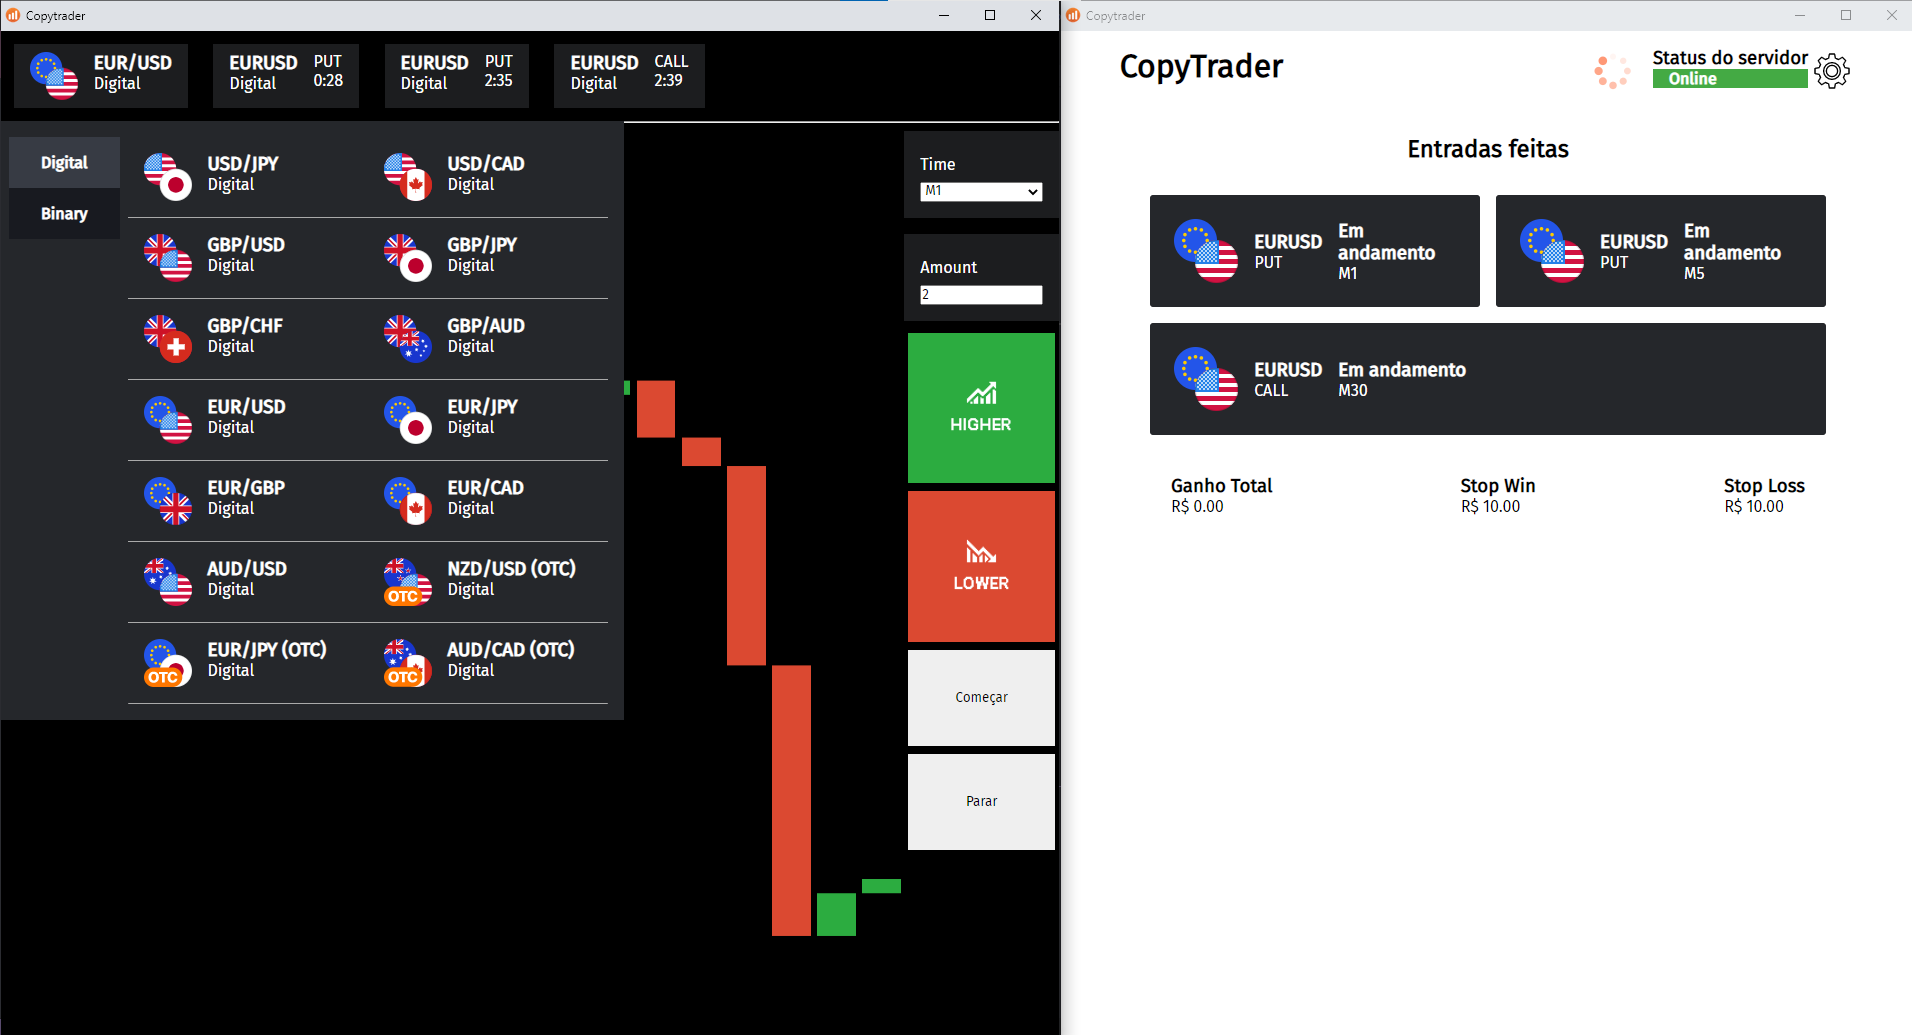
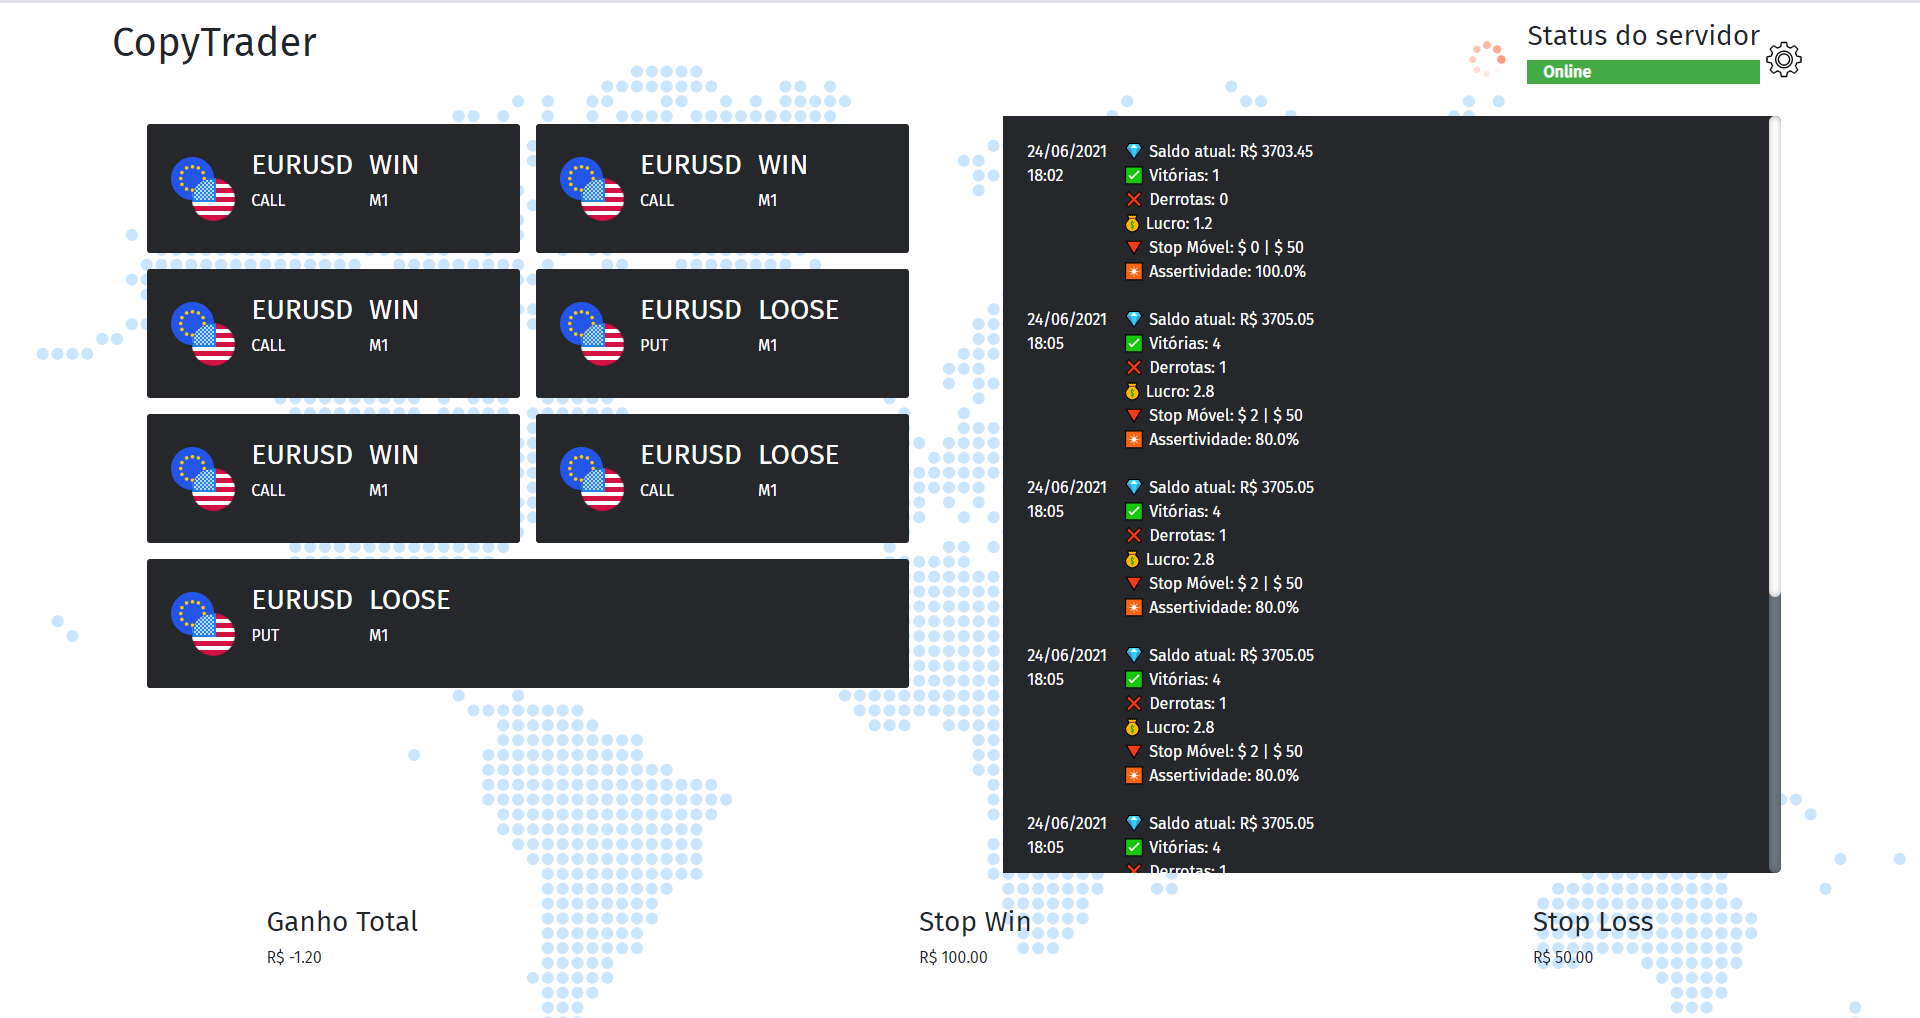
show loggs form client

diff --git a/client/web/scripts/settings.js b/client/web/scripts/settings.js
@@ -116,8 +116,6 @@ function saveChanges(config = null) {
 
         config.valor = parseFloat(getValue(
             "#valor", config.valor))
-        config.tipo_par = getValue(
-            "#tipo_par", config.tipo_par)
         
         config.vez_gale = getValue(
             "#vez_gale", config.vez_gale)
@@ -179,14 +177,12 @@ function saveChanges(config = null) {
 eel.expose(loadConfig)
 function loadConfig() {
     function setValue(value, query) {
-        console.log(value, query);
         document.querySelector(query).value = value;
     }
     let config = JSON.parse(localStorage.getItem('config'));
     if (config == null) {
         return
     }
-    console.log(config)
     setValue(config.valor, "#valor")
     setValue(config.stoploss, "#settings #stoploss")
     setValue(config.stopwin, "#settings #stopwin")
@@ -201,7 +197,6 @@ function loadConfig() {
     setValue(config.max_soros, "#max_soros")
     setValue(config.max_gale, "#max_gale")
     setValue(config.vez_gale, "#vez_gale")
-    setValue(config.tipo_par, "#tipo_par")
 
     if (config['delay'] != false) {
         document.querySelector("#delaye").checked = true;
@@ -212,4 +207,16 @@ function loadConfig() {
     setCiclos("#settings-ciclosgale ", config.ciclos_gale) 
     setCiclos("#settings-ciclossoros ", config.ciclos_soros) 
     return config
+}
+eel.expose(addLog)
+function addLog(date, hour, message) {
+    let logs = document.querySelector("div.logs ul");
+    let newLog = document.createElement("li");
+    newLog.innerHTML = `
+    <div>
+        <p> ${date} </p> <p> ${hour} </p>
+    </div> <p> ${message} </p>`
+    logs.appendChild(newLog);
+
+    logs.scrollBy(0, 200);
 }

diff --git a/client/web/styles/trades.css b/client/web/styles/trades.css
@@ -1,24 +1,52 @@
 main ul {
     display: flex;
     flex-wrap: wrap;
-    width: 90%;
-    max-height: 80vh;
+    max-height: calc(100vh - 260px);
     overflow: auto;
+    width: 90%;
+    overflow-x: clip;
 }
 
 main ul li {
     display: flex;
-    align-items: center;
     justify-content: flex-start;
-    flex: 1 1 15%;
     padding: 1em;
     margin: 0.5em;
-    background-color: #25272b;
     color: #fff;
     border-radius: 3px;
     list-style: none;
 }
 
+main > div.trades {
+    flex-grow: 1;
+}
+main div.trades li {
+    background-color: #25272b;
+    align-items: center;
+    flex: 1 1 15%;
+    font-size: unset;
+}
+
 main ul li > * {
     margin: 0.5em;
+}
+main div.logs {
+    max-width: 50vw;
+    width: 100%;
+    height: calc(100vh - 260px);
+}
+main div.logs li,
+main div.logs {
+    padding: 0;
+}
+main div.logs ul {
+    flex-direction: column;
+    background-color: #25272b;
+    border-radius: 0 6px 6px 0;
+    flex-wrap: nowrap;
+    padding: 0.5em;
+    height: 100%;
+}
+main div.logs li p {
+    margin-bottom: 0;
 }

diff --git a/client/web/index.html b/client/web/index.html
@@ -55,9 +55,12 @@
                 id = "config-btn" onClick = "openConfig()">
         </header>
         <main>
-            <h2> Entradas feitas </h2>
-            <ul>
-            </ul>
+            <div class="trades">
+                <ul></ul>
+            </div>
+            <div class="logs">
+                <ul></ul>
+            </div>            
         </main>
         <footer>
             <div>
@@ -76,6 +79,9 @@
     </div>
 </body>
 <script>
-    $("section.config").load("components/config.html")
+    $("section.config").load("components/config.html");
+    // login({
+    //     preventDefault: () => {}
+    // });
 </script>
 </html>

diff --git a/client/web/styles/main.css b/client/web/styles/main.css
@@ -132,9 +132,14 @@ section button.close {
 
 main {
     display: flex;
+    width: 90vw;
+}
+
+main > div {
+    display: flex;
     flex-direction: column;
     align-items: center;
-    width: 90vw;
+    flex: 1;
 }
 
 main h2 {
@@ -145,6 +150,7 @@ button {
 }
 header {
     display: flex;
+    align-items: center;
     justify-content: flex-end;
     width: 90vw;
     padding: 1em;

diff --git a/client/web/styles/bootstrap.css b/client/web/styles/bootstrap.css
@@ -144,13 +144,11 @@ address {
   line-height: inherit;
 }
 
-ol,
-ul {
+ol {
   padding-left: 2rem;
 }
 
 ol,
-ul,
 dl {
   margin-top: 0;
   margin-bottom: 1rem;

diff --git a/client/utils/operar.py b/client/utils/operar.py
@@ -1,4 +1,5 @@
 import threading, time, amanobot
+from datetime import datetime
 from utils.IQ import IQ_API
 from pprint import pprint
 
@@ -7,6 +8,7 @@ class Operacao(IQ_API):
         self.cadeado = threading.Lock()
         self.config = config
         self.entrou = False
+        self.output = lambda *x: print(x)
         self.operacoes_ativas = {}	
         self.chat_id = config["chat_id"]
         self.bottoken = config["token"]
@@ -75,9 +77,7 @@ class Operacao(IQ_API):
             "loss": self.config['scalper_loss']
         } if (self.config['scalper_win'] != 0 and 
             self.config['scalper_loss'] != 0) else False
-
-        pprint(self.config)
-        
+                
     def resetar_status(self):
         self.saldo_inicial = self.API.get_balance()
         self.valor = self.config["valor"]
@@ -107,7 +107,10 @@ class Operacao(IQ_API):
                 except Exception as e:
                     print("mostrar_mensagem()", type(e), e)
 
-        print(mensagem)
+        today = datetime.now()
+        self.output(today.strftime("%d/%m/%Y"), 
+            today.strftime("%H:%M"), 
+            mensagem.strip().replace("\n", "<br>"))
         if logs: return
 
         if self.bottoken != "" and self.chat_id != "":

diff --git a/client/iqoptionapi/stable_api.py b/client/iqoptionapi/stable_api.py
@@ -178,8 +178,8 @@ class IQ_Option:
 
         start = time.time()
         while self.api.leaderboard_deals_client == None:
-            if time.time() - start > 40:
-                return None
+            if time.time() - start > 30:
+                return []
         return self.api.leaderboard_deals_client
 
     def get_instruments(self, type):
@@ -1549,13 +1549,14 @@ class IQ_Option:
         self.api.leaderboard_userinfo_deals_client = None
 
         while True:
+            self.api.Request_Leaderboard_Userinfo_Deals_Client(
+                user_id, country_id)
             try:
                 if self.api.leaderboard_userinfo_deals_client["isSuccessful"] == True:
                     break
+                else: print(self.api.leaderboard_userinfo_deals_client)
             except:
                 pass
-            self.api.Request_Leaderboard_Userinfo_Deals_Client(
-                user_id, country_id)
             time.sleep(0.2)
 
         return self.api.leaderboard_userinfo_deals_client

diff --git a/client/utils/IQ.py b/client/utils/IQ.py
@@ -36,6 +36,26 @@ class IQ_API:
                 time.sleep(1)
         return False
 
+    def online_top_ranking(self, quantidade, filtro = "Worldwide"):
+        '''
+        Procura o primeiro dos X traders online.
+        '''
+
+        ranking = []
+        contador = 0
+        while contador < 2 and ranking == []:
+            ranking = self.API.get_leader_board(filtro, 1, quantidade, 0)
+            contador += 1
+
+        if ranking == []: return []
+        else:
+            for _trader in ranking['result']['positional']:
+                trader = ranking['result']['positional'][_trader]
+                info = self.API.get_users_availability(trader['user_id'])
+                if info["statuses"][0]["status"] == "online":            
+                    return f"[{trader['flag']}] {trader['user_name']}"
+        return []
+
     def mudar_treino(self):
         '''
         Muda para a conta treino

diff --git a/client/bot.py b/client/bot.py
@@ -49,6 +49,7 @@ class IQOption:
         try:
             eel.loadConfig()(set_config)
             self.API = Operacao(config)
+            self.API.output = addLog
             return True
         except Exception as e:
             print(type(e), e)
@@ -92,6 +93,8 @@ class IQOption:
 
 api = IQOption()
 eel.init('web')
+
+def addLog(*args, **kwargs): eel.addLog(*args, *kwargs)
 
 @eel.expose
 def verify_connection(email, password):
